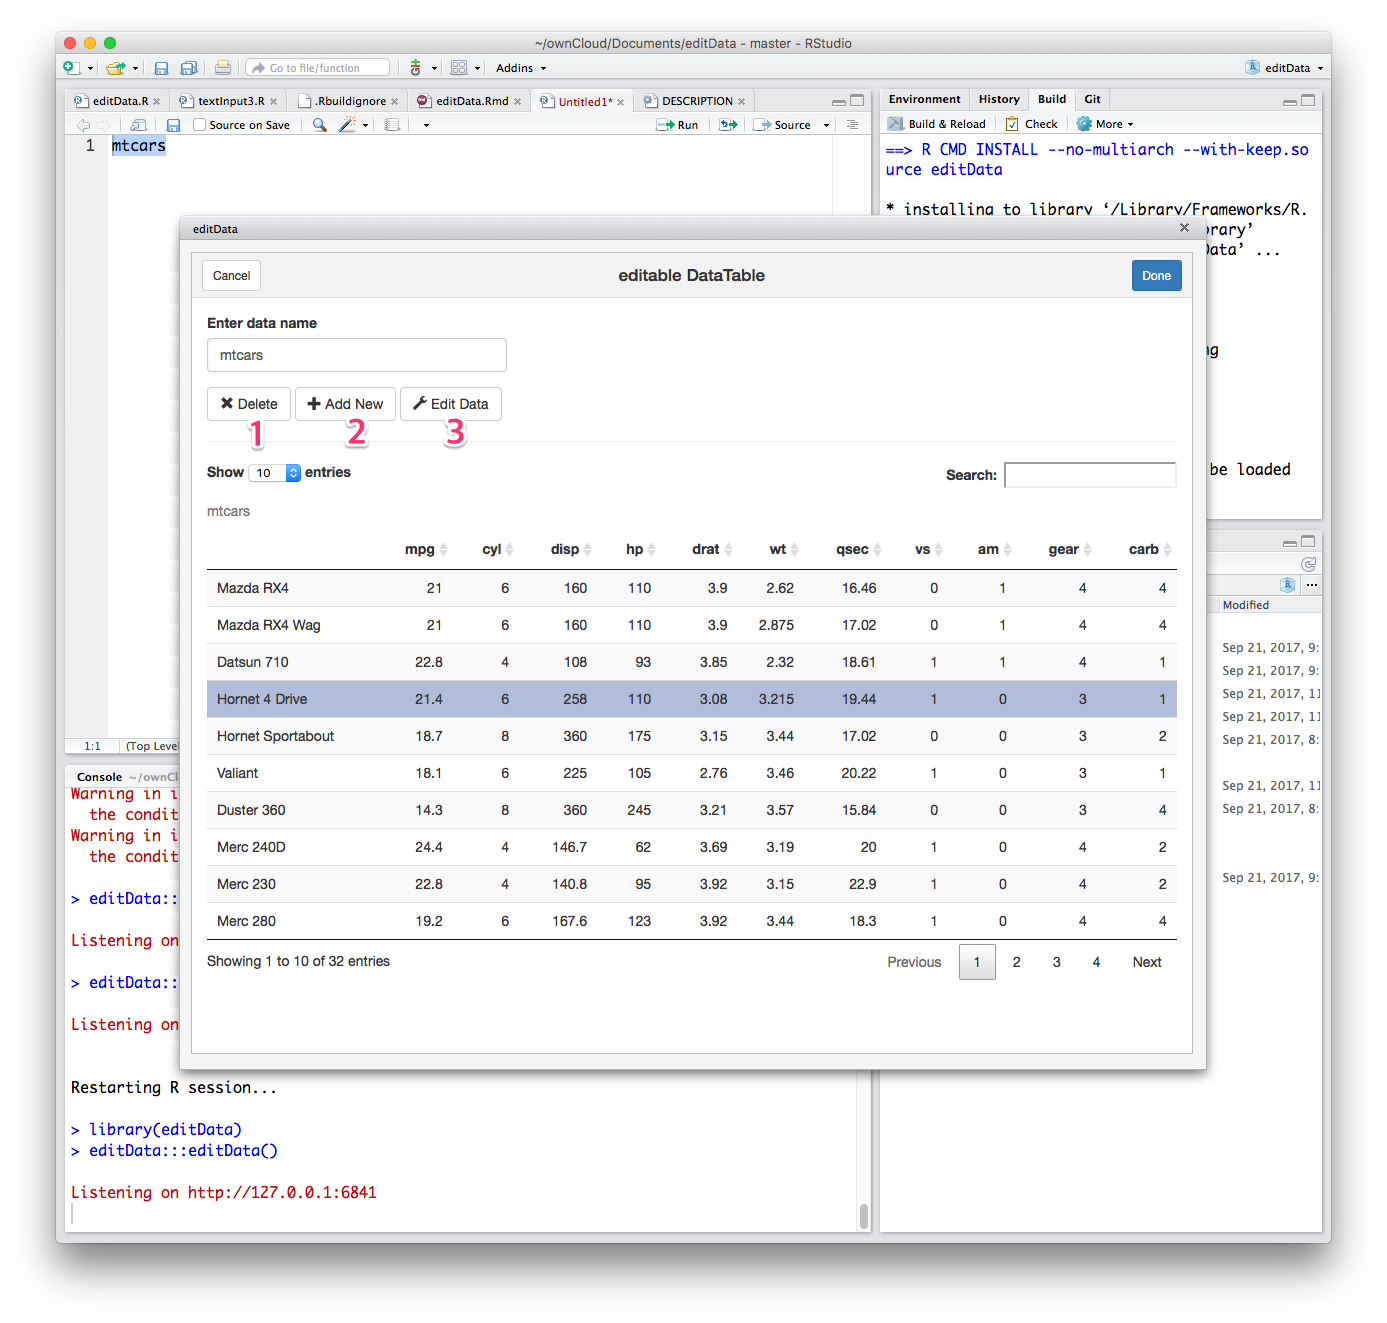
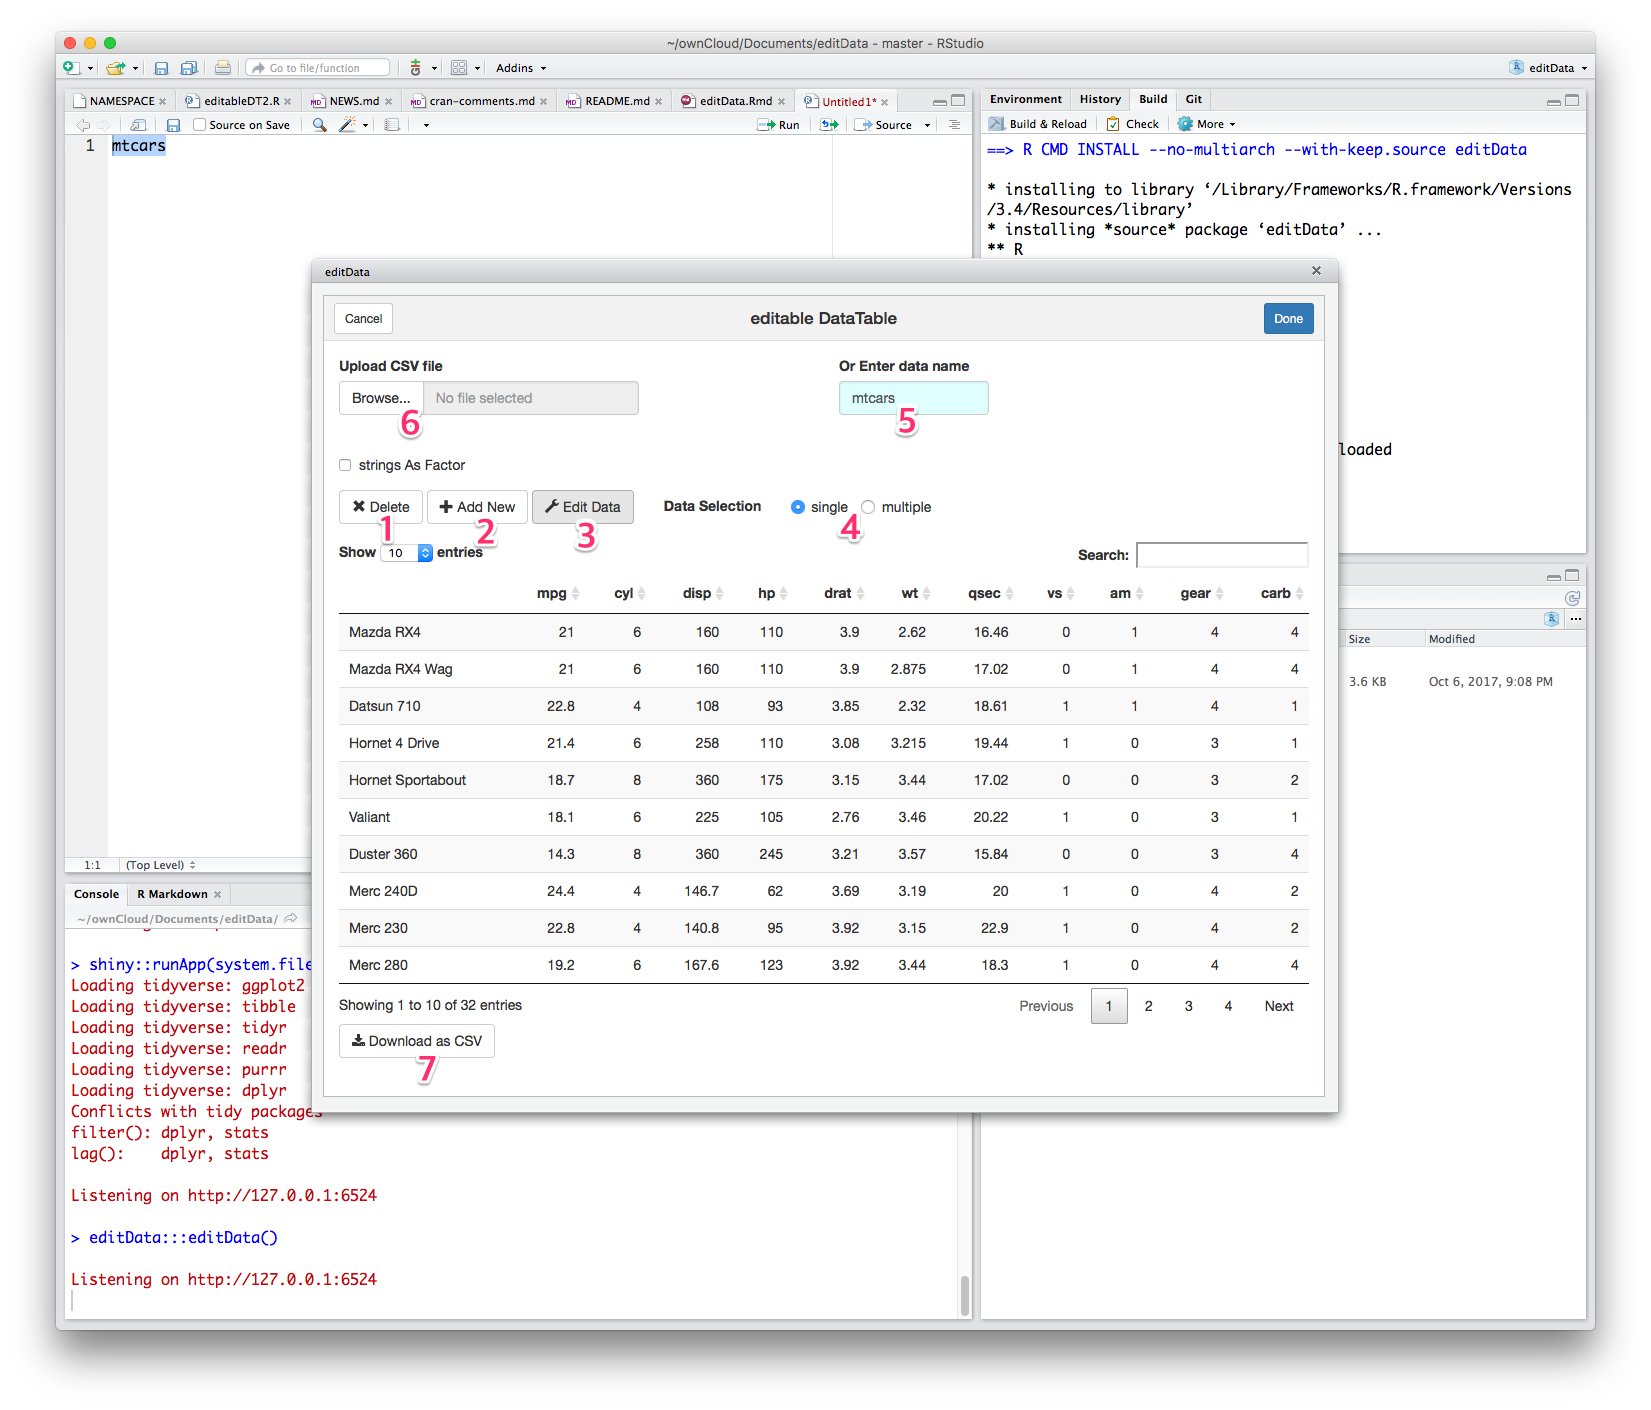
0.1.2
01.2

Changed region(s): [[0.031, 0.0, 0.9611, 0.9607], [0.713, 0.6198, 0.7441, 0.6508], [0.682, 0.3409, 0.713, 0.3719]]

diff --git a/README.md b/README.md
@@ -1,7 +1,7 @@
 ---
 title: "package editData : An RStudio Addin for Editing A 'data.frame'"
 author: "Keon-Woong Moon"
-date: "2017-09-23"
+date: "2017-10-06"
 output: rmarkdown::html_vignette
 vignette: >
   %\VignetteIndexEntry{editData}
@@ -14,7 +14,7 @@ vignette: >
 # editData
 
 
-The 'editData' is an RStudio addin for editing a 'data.frame' or a 'tibble'. Many RStudio users want to edit a data.frame. With this 'editData' package, you can delete, add or update a 'data.frame' without coding. You don't have to use Microsoft excel or a csv editor any more to edit data. You can get resultant data as a 'tibble' or as a 'data.frame'.
+The 'editData' is an RStudio addin for editing a 'data.frame' or a 'tibble'. Many RStudio users want to edit a data.frame. With this 'editData' package, you can delete, add or update a 'data.frame' without coding. You don't have to use Microsoft excel or a csv editor any more to edit data. You can get resultant data as a 'tibble' or as a 'data.frame'. You can read a csv file in the disk and save it as a csv format.
 
 ## Install package
 
@@ -47,9 +47,11 @@ This addin can be used to interactively manipulate a `data.frame` or a `tibble`.
 
 <img src="https://raw.githubusercontent.com/cardiomoon/editData/master/man/figures/2.png" title="plot of chunk unnamed-chunk-4" alt="plot of chunk unnamed-chunk-4" width="70%" style="display: block; margin: auto;" />
 
-3. You can select and unselect a row by clicking a row in dataTable. You can delete the selected row(1), add a new row(2) or edit a row(3).
+3. You can select and unselect a row by clicking a row in dataTable. You can delete the selected row(1), add a new row(2) or edit a row(3). You can select single or multiple rows(4) to delete.
 
 <img src="https://raw.githubusercontent.com/cardiomoon/editData/master/man/figures/3.png" title="plot of chunk unnamed-chunk-5" alt="plot of chunk unnamed-chunk-5" width="70%" style="display: block; margin: auto;" />
+
+You can enter data name(5) to edit, upload a CSV file(6) and download the edited data as a csv file(7).
 
 4. If you press the edit button you can see this window. You can move to the desired row, edit rowname and individual data. You can delete the row or update the data.
 
@@ -76,3 +78,15 @@ result <- editData(mtcars)
 ```
 
 The resultant 'tibble' or 'data.frame' is assigned to the object `result`.
+
+
+## Usage: As a shiny module
+
+The `editData` package is made of modularized shiny functions. You can use the modularized `editableDTUI()` and `editableDT()` functions in your shiny app. In this package, I have included three examples in the `inst` folder. You can run ths examples with one of the following codes.
+
+
+```r
+shiny::runApp(system.file('example',package='editData'))
+shiny::runApp(system.file('multipleData',package='editData'))
+shiny::runApp(system.file('multipleFiles',package='editData'))
+```

diff --git a/cran-comments.md b/cran-comments.md
@@ -1,8 +1,10 @@
 This is an update of the package 'editData'.
 
-1) I have rewrite R codes for 'editData' function as shiny module. These module are intended for reuse across applications.
+1) I have rewrite vignette to explain modularized functions. These module are intended for reuse across applications.
 
-2) I have added several functions and executable exmaples as a shiny module
+2) I have added several executable exmaples in the `inst` folder.
+
+3) Several bugs fixed.
 
 ## Test environments
 * local OS X install, R 3.4.1

diff --git a/NEWS.md b/NEWS.md
@@ -1,8 +1,10 @@
 # editData 0.1.2
 =================
-(2017-Oct-3)
+(2017-Oct-6)
 
 * Bug fixed
+
+* Add several example applications in "inst" folder
 
 # editData 0.1.1
 ==================
